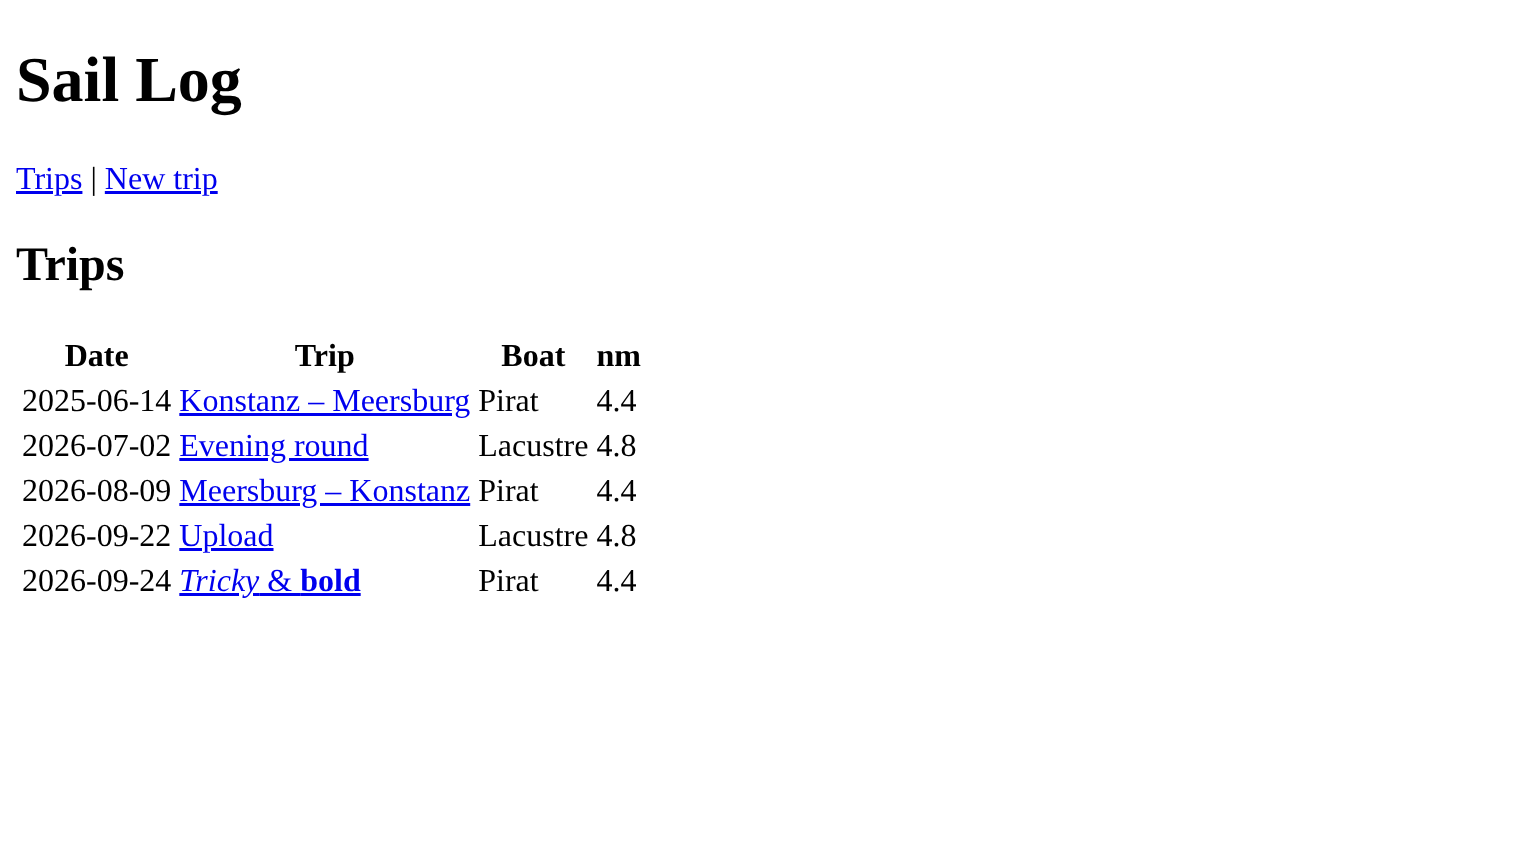
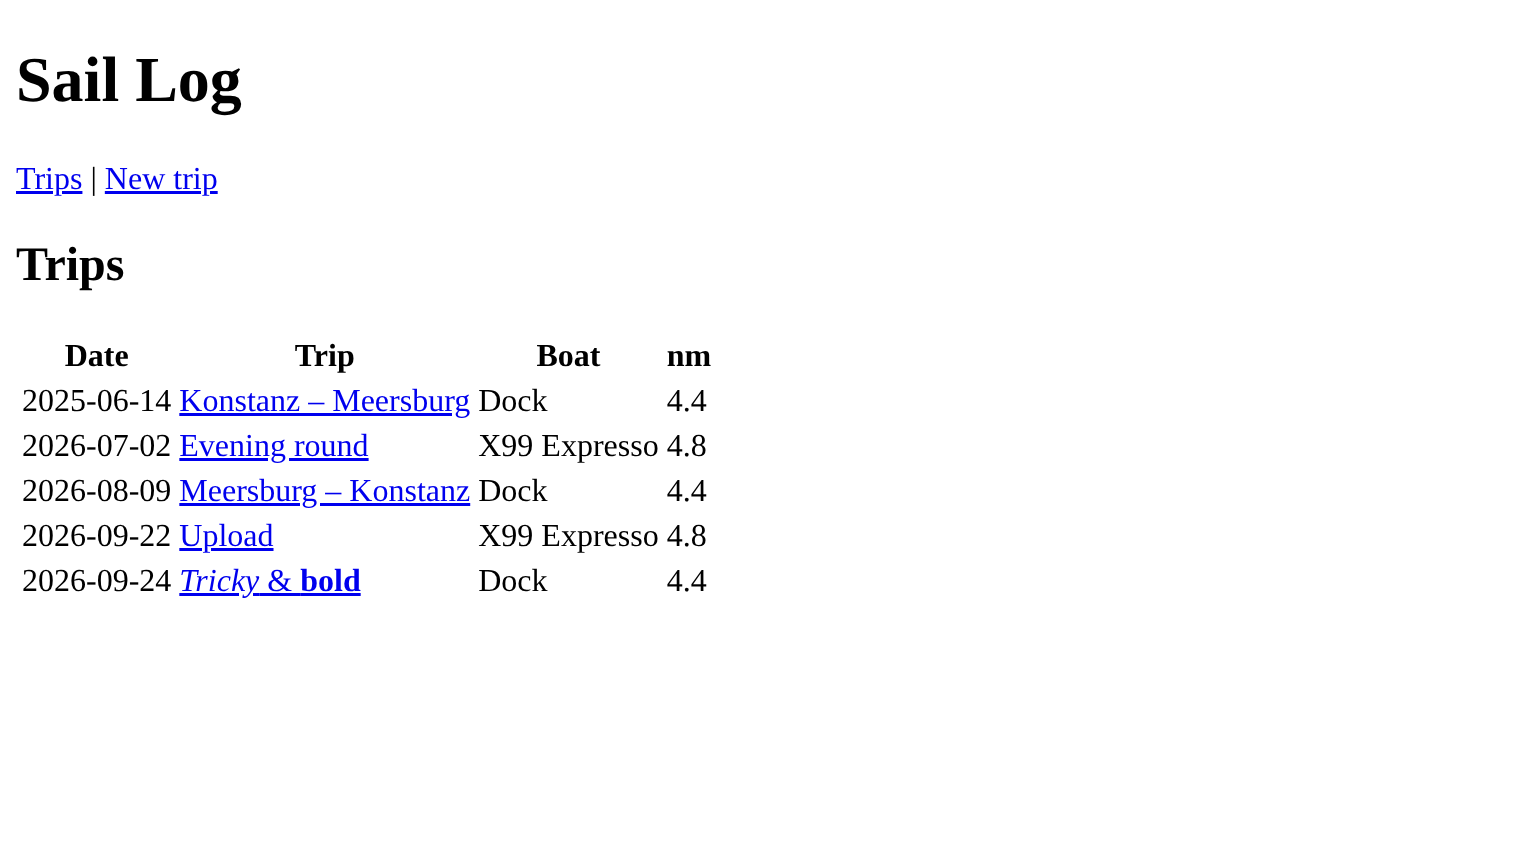
Programmiertechnik I 19-24: rename sample boats to Dock (motorboat) and X99 Expresso (keelboat), regenerate screenshots; 22: introduce nav/main/article on slide 7

Changed region(s): [[0.3092, 0.4535, 0.4638, 0.6349], [0.3092, 0.6651, 0.4638, 0.6953], [0.3092, 0.393, 0.4638, 0.4233]]

diff --git a/lectures/programmiertechnik-I/20-Databases.md b/lectures/programmiertechnik-I/20-Databases.md
@@ -193,8 +193,8 @@ Tables, keys and SQL
 
 | id | name | kind |
 |---|---|---|
-| 1 | Pirat | Dinghy |
-| 2 | Lacustre | Keelboat |
+| 1 | Dock | Motorboat |
+| 2 | X99 Expresso | Keelboat |
 
 **trip_row**
 
@@ -243,9 +243,9 @@ CREATE TABLE IF NOT EXISTS crew_row (trip_id INTEGER, name TEXT, role TEXT)
 # SQL: Queries
 
 ```sql
-INSERT INTO boat_row (id, name, kind) VALUES (1, 'Pirat', 'Dinghy');
+INSERT INTO boat_row (id, name, kind) VALUES (1, 'Dock', 'Motorboat');
 
-SELECT name FROM boat_row WHERE kind = 'Dinghy';
+SELECT name FROM boat_row WHERE kind = 'Motorboat';
 
 SELECT boat_row.name, SUM(trip_row.distance_nm)
 FROM trip_row JOIN boat_row ON trip_row.boat_id = boat_row.id
@@ -345,7 +345,7 @@ def addBoat(b: Boat): Unit = client.transaction { db =>
 - `BoatRow.insert.columns(...)` builds an `INSERT` statement
 - `_.name := b.name`: column gets a value – wrong type → compile error
 - Values are passed as **parameters** – no SQL injection possible
-- The enum is stored as text: `Dinghy`
+- The enum is stored as text: `Motorboat`
 
 ---
 
@@ -358,7 +358,7 @@ def boats: List[Boat] = client.transaction { db =>
 ```
 
 ```scala
-db.run(BoatRow.select.filter(_.kind === "Dinghy").map(_.name))
+db.run(BoatRow.select.filter(_.kind === "Motorboat").map(_.name))
 ```
 
 - Looks like collection code (Lecture 12): `select`, `filter`, `map`, `sortBy`
@@ -458,12 +458,12 @@ for (name, repo) <- repos do
 
 ```text
 JSON file
-  boats: List(Pirat, Lacustre)
-  nm per boat: Map(Pirat -> 8.786607357403177, Lacustre -> 4.753595337995797)
+  boats: List(Dock, X99 Expresso)
+  nm per boat: Map(Dock -> 8.786607357403177, X99 Expresso -> 4.753595337995797)
   trip 2 crew: Some(List(Marko, Anna))
 SQLite
-  boats: List(Pirat, Lacustre)
-  nm per boat: Map(Lacustre -> 4.753595337995797, Pirat -> 8.786607357403177)
+  boats: List(Dock, X99 Expresso)
+  nm per boat: Map(Dock -> 8.786607357403177, X99 Expresso -> 4.753595337995797)
   trip 2 crew: Some(List(Marko, Anna))
 same trips in both: true
 ```

diff --git a/lectures/programmiertechnik-I/19-Files-and-File-Formats.md b/lectures/programmiertechnik-I/19-Files-and-File-Formats.md
@@ -48,7 +48,7 @@ One example, six lectures
 
 # saillog: What We Build
 
-- A **logbook** for sailing trips (German: *Törns*) on Lake Constance
+- A **logbook** for the trips (*Törns*) of HTWG's training boats on Lake Constance: the motorboat **Dock** and the keelboat **X99 Expresso**
 - Boats, crew, trips – and for every trip a **GPS track**
 - Six steps, one per lecture:
 
@@ -102,7 +102,7 @@ sbt "runMain saillog.lecture19"
 
 ```scala
 enum BoatKind derives ReadWriter:
-  case Dinghy, Keelboat, Catamaran
+  case Motorboat, Keelboat, Catamaran
 
 enum Role derives ReadWriter:
   case Skipper, Crew
@@ -317,10 +317,10 @@ object Csv:
 ```yaml
 boats:
   - id: 1
-    name: Pirat
-    kind: Dinghy
+    name: Dock
+    kind: Motorboat
   - id: 2
-    name: Lacustre
+    name: X99 Expresso
     kind: Keelboat
 # a comment
 season: 2026
@@ -367,8 +367,8 @@ season: 2026
 <?xml version="1.0" encoding="UTF-8"?>
 <boats>
   <boat id="1">
-    <name>Pirat</name>
-    <kind>Dinghy</kind>
+    <name>Dock</name>
+    <kind>Motorboat</kind>
   </boat>
 </boats>
 ```
@@ -492,11 +492,11 @@ import upickle.default.*
 
 case class Boat(id: Int, name: String, kind: BoatKind) derives ReadWriter
 
-write(Boat(1, "Pirat", BoatKind.Dinghy))
-// {"id":1,"name":"Pirat","kind":"Dinghy"}
+write(Boat(1, "Dock", BoatKind.Motorboat))
+// {"id":1,"name":"Dock","kind":"Motorboat"}
 
-read[Boat]("""{"id":1,"name":"Pirat","kind":"Dinghy"}""")
-// Boat(1,Pirat,Dinghy)
+read[Boat]("""{"id":1,"name":"Dock","kind":"Motorboat"}""")
+// Boat(1,Dock,Motorboat)
 ```
 
 - `derives ReadWriter` as introduced in Lecture 17 – here it pays off: no conversion code by hand

diff --git a/lectures/programmiertechnik-I/22-HTML.md b/lectures/programmiertechnik-I/22-HTML.md
@@ -84,7 +84,7 @@ Documents for people
 ```html
 <a href="/trips/1">Konstanz – Meersburg</a>
 <input id="title" name="title" required>
-<img src="boat.jpg" alt="Our dinghy">
+<img src="boat.jpg" alt="Our motorboat Dock">
 ```
 
 - An element: opening tag, content, closing tag
@@ -96,6 +96,8 @@ Documents for people
 
 # Text Elements
 
+<style scoped>table { font-size: 0.8em; }</style>
+
 | Element | Meaning |
 |---|---|
 | `<h1>` … `<h6>` | headings, `h1` is the most important |
@@ -104,6 +106,9 @@ Documents for people
 | `<ul>`, `<ol>`, `<li>` | unordered / ordered list, list item |
 | `<strong>`, `<em>` | important, emphasised |
 | `<img src="…" alt="…">` | image with a text alternative |
+| `<nav>` | navigation area: the main links of a page |
+| `<main>` | the central content of the page, once per page |
+| `<article>` | self-contained content, e.g. a blog post, a comment – or a trip |
 
 - Choose elements by **meaning**, not by looks – the looks come in Lecture 23
 
@@ -125,7 +130,7 @@ Documents for people
 </body>
 ```
 
-- `header`, `nav`, `main`, `article`, `section`, `footer` describe the **role** of a part
+- `nav`, `main` and `article` from the previous slide build the page frame
 - Screen readers, search engines and CSS all use this structure
 
 ---
@@ -167,7 +172,7 @@ def page(title: String, body: String): String =
   <thead><tr><th>Date</th><th>Trip</th><th>Boat</th><th>nm</th></tr></thead>
   <tbody>
     <tr><td>2025-06-14</td><td><a href="/trips/1">Konstanz – Meersburg</a></td>
-        <td>Pirat</td><td>4.4</td></tr>
+        <td>Dock</td><td>4.4</td></tr>
   </tbody>
 </table>
 ```

diff --git a/lectures/programmiertechnik-I/21-HTTP-Server.md b/lectures/programmiertechnik-I/21-HTTP-Server.md
@@ -303,7 +303,7 @@ initialize()
 
 ```text
 $ curl localhost:8080/api/stats/nm-per-boat
-{"Lacustre":9.146899016697386,"Pirat":13.540202695398975}
+{"Dock":13.540202695398975,"X99 Expresso":9.146899016697386}
 ```
 
 - With SQLite behind it, the `JOIN … GROUP BY` from Lecture 20 runs in the database
@@ -317,9 +317,9 @@ $ curl localhost:8080/api/stats/nm-per-boat
 $ curl -i localhost:8080/api/boats
 HTTP/1.1 200 OK
 Content-Type: application/json
-Content-Length: 86
+Content-Length: 92
 
-[{"id":1,"name":"Pirat","kind":"Dinghy"},{"id":2,"name":"Lacustre","kind":"Keelboat"}]
+[{"id":1,"name":"Dock","kind":"Motorboat"},{"id":2,"name":"X99 Expresso","kind":"Keelboat"}]
 ```
 
 - `writeJs` produces a `ujson.Value` – Cask sends it with `Content-Type: application/json`
@@ -355,7 +355,7 @@ sbt "runMain saillog.web.LogbookServer"
 
 ```text
 $ curl localhost:8080/api/boats
-[{"id":1,"name":"Pirat","kind":"Dinghy"},{"id":2,"name":"Lacustre","kind":"Keelboat"}]
+[{"id":1,"name":"Dock","kind":"Motorboat"},{"id":2,"name":"X99 Expresso","kind":"Keelboat"}]
 
 $ curl "localhost:8080/api/trips?season=2026"
 [{"id":2,"boatId":2,"date":"2026-07-02","title":"Evening round","crew":[...
